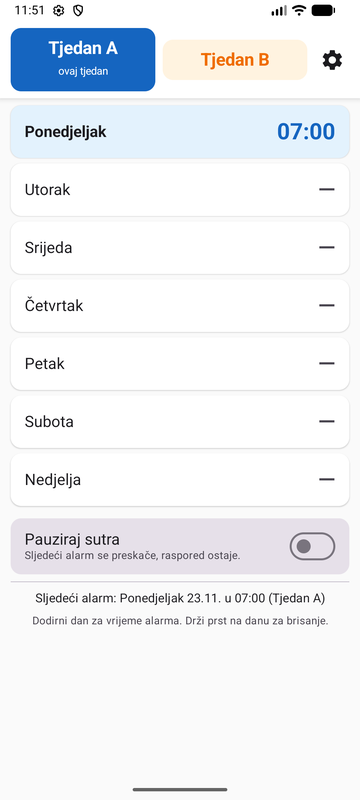
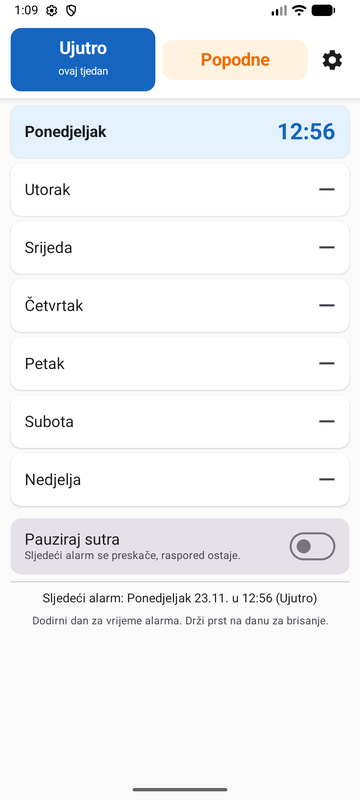
Nazivi smjena: „Ujutro” i „Popodne” umjesto „Tjedan A” i „Tjedan B”
- Tabovi, postavke, obavijest i redak sljedećeg alarma koriste Ujutro/Popodne
  (engleski: Morning/Afternoon); interno ostaje Tjedan A/B, postavke se čuvaju
- „Sada je tjedan:” → „Ovaj tjedan idem:”; boje nepromijenjene
- README, snimke ekrana i slika za dijeljenje usklađeni

diff --git a/README.md b/README.md
@@ -5,8 +5,8 @@
 <h1 align="center">AB Alarm</h1>
 
 <p align="center">
-  Budilica za dvosmjensku nastavu: <b>Tjedan A</b> i <b>Tjedan B</b> izmjenjuju se automatski.<br>
-  <i>An alarm clock for two-shift schooling: <b>Week A</b> and <b>Week B</b> alternate automatically.</i>
+  Budilica za dvosmjensku nastavu: alarmi za tjedan <b>ujutro</b> i tjedan <b>popodne</b> izmjenjuju se automatski.<br>
+  <i>An alarm clock for two-shift schooling: <b>morning</b> and <b>afternoon</b> week alarms alternate automatically.</i>
 </p>
 
 <p align="center">
@@ -32,9 +32,9 @@ U hrvatskim školama učenici jedan tjedan idu u školu ujutro, a sljedeći popo
 
 ### Značajke
 
-- **Dva tjedna, 14 alarma:** svaki dan u Tjednu A i Tjednu B ima svoj alarm ili je isključen. Vikend se postavlja zasebno.
+- **Dvije smjene, 14 alarma:** svaki dan u tjednu „Ujutro” i tjednu „Popodne” ima svoj alarm ili je isključen. Vikend se postavlja zasebno.
 - **Jednostavno sučelje:** dodir na dan postavlja vrijeme, a dugi pritisak briše alarm.
-- **Automatska izmjena tjedana:** dovoljno je jednom reći „sada je Tjedan A”. Taj dan ne mora biti ponedjeljak.
+- **Automatska izmjena smjena:** dovoljno je jednom reći „ovaj tjedan idem ujutro”. Taj dan ne mora biti ponedjeljak.
 - **Pauziraj sutra:** preskače sljedeći alarm, a raspored ostaje nepromijenjen.
 - **Pouzdano zvoni:** koristi `setAlarmClock()`, pa zvoni na vrijeme i kad je mobitel u stanju mirovanja (Doze). Nakon restarta mobitela alarmi se ponovno zakazuju.
 - **Odgoda:** trajanje od 5 do 30 min i najveći broj odgoda (1, 3, 5, 10 ili neograničeno).
@@ -46,7 +46,7 @@ U hrvatskim školama učenici jedan tjedan idu u školu ujutro, a sljedeći popo
 
 1. Preuzmi `AB-Alarm-v0.1.apk` s [Releases](../../releases).
 2. Otvori datoteku na mobitelu i dopusti instalaciju iz nepoznatih izvora.
-3. Pri prvom pokretanju dopusti obavijesti, pa odaberi koji je tjedan sada (A ili B).
+3. Pri prvom pokretanju dopusti obavijesti, pa odaberi ideš li ovaj tjedan ujutro ili popodne.
 4. Otvori **Postavke → Provjeri dopuštenja** i prođi kroz korake.
 
 Potreban je **Android 8.0 (API 26)** ili noviji.
@@ -55,7 +55,7 @@ Potreban je **Android 8.0 (API 26)** ili noviji.
 
 ### Kako se računa tjedan
 
-Korisnik odabere jedan datum (bilo koji dan u tjednu) i kaže kojem tjednu pripada. Za svaki drugi datum aplikacija:
+Interno se smjene zovu Tjedan A (ujutro) i Tjedan B (popodne). Korisnik odabere jedan datum (bilo koji dan u tjednu) i kaže koja je smjena u tom tjednu. Za svaki drugi datum aplikacija:
 
 1. svede oba datuma na **ponedjeljak** njihova tjedna,
 2. izračuna razliku u tjednima: `Math.floorDiv(razlikaDana, 7)`,
@@ -120,9 +120,9 @@ In Croatian schools, students attend school in the morning one week and in the a
 
 ### Features
 
-- **Two weeks, 14 alarms:** every day in Week A and Week B has its own alarm or is turned off. Weekends are set separately.
+- **Two shifts, 14 alarms:** every day in the "Morning" week and the "Afternoon" week has its own alarm or is turned off. Weekends are set separately.
 - **Simple interface:** tap a day to set the time, press and hold to delete the alarm.
-- **Automatic week switching:** just say "it is Week A now" once. That day does not have to be a Monday.
+- **Automatic shift switching:** just say "this week I go in the morning" once. That day does not have to be a Monday.
 - **Pause tomorrow:** skips the next alarm and leaves the schedule unchanged.
 - **Reliable ringing:** uses `setAlarmClock()`, so it rings on time even when the phone is idle (Doze). Alarms are rescheduled after the phone restarts.
 - **Snooze:** length from 5 to 30 min and a maximum number of snoozes (1, 3, 5, 10 or unlimited).
@@ -134,7 +134,7 @@ In Croatian schools, students attend school in the morning one week and in the a
 
 1. Download `AB-Alarm-v0.1.apk` from [Releases](../../releases).
 2. Open the file on your phone and allow installing from unknown sources.
-3. On first launch, allow notifications, then choose which week it is now (A or B).
+3. On first launch, allow notifications, then choose whether you go to school in the morning or the afternoon this week.
 4. Open **Settings → Check permissions** and go through the steps.
 
 Requires **Android 8.0 (API 26)** or newer.
@@ -143,7 +143,7 @@ Requires **Android 8.0 (API 26)** or newer.
 
 ### How the week is calculated
 
-The user picks one date (any day of the week) and says which week it belongs to. For every other date, the app:
+Internally, the shifts are called Week A (morning) and Week B (afternoon). The user picks one date (any day of the week) and says which shift that week is. For every other date, the app:
 
 1. moves both dates back to the **Monday** of their week,
 2. calculates the difference in weeks: `Math.floorDiv(dayDifference, 7)`,
